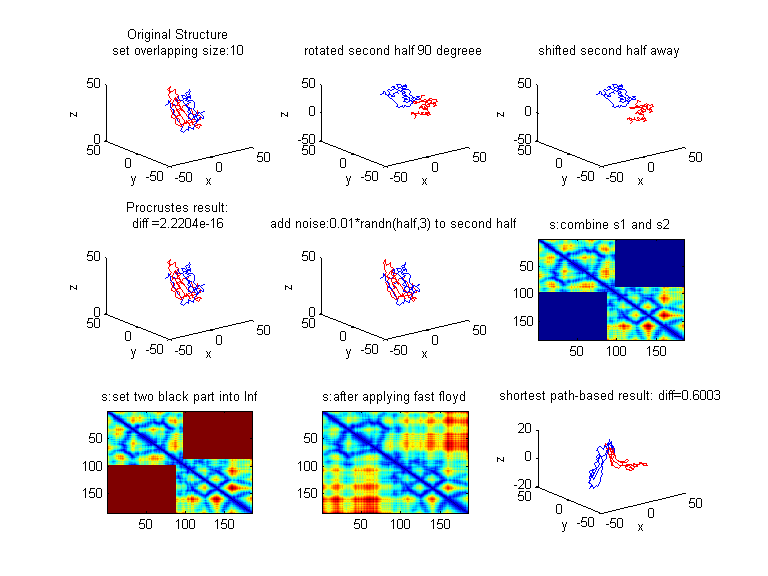
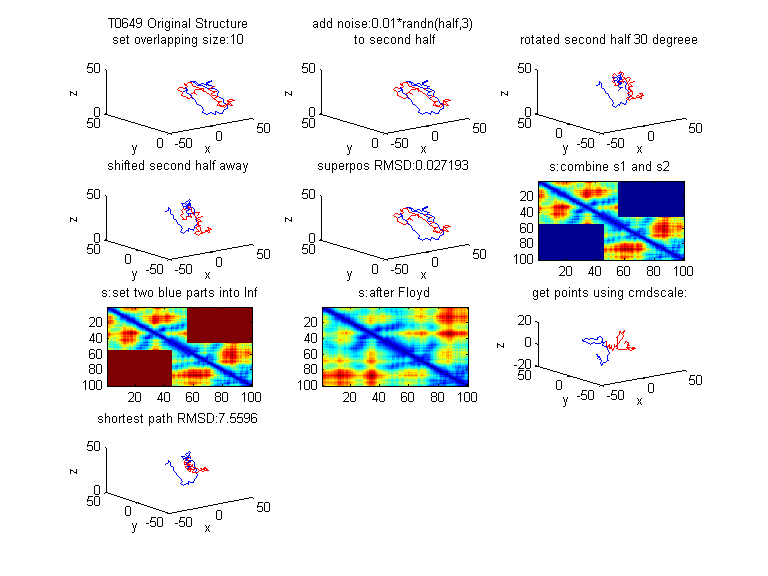
results

diff --git a/experimentMethods.m b/experimentMethods.m
@@ -14,7 +14,7 @@ secondHalfOrigin=coords(size(firstHalfOrigin,1)-overlappingSize+1:end,:);
 
 
 % figure;
-subplot(3,3,1);
+subplot(4,3,1);
 plot3(firstHalfOrigin(:,1),firstHalfOrigin(:,2),firstHalfOrigin(:,3));
 hold on
 plot3(secondHalfOrigin(:,1),secondHalfOrigin(:,2),secondHalfOrigin(:,3),'r');
@@ -29,7 +29,7 @@ zlabel('z')
 
 noise=alpha*randn(half,3);
 secondHalf=secondHalfOrigin+noise;
-subplot(3,3,2);
+subplot(4,3,2);
 plot3(firstHalfOrigin(:,1),firstHalfOrigin(:,2),firstHalfOrigin(:,3));
 hold on
 plot3(secondHalf(:,1),secondHalf(:,2),secondHalf(:,3),'r');
@@ -44,7 +44,7 @@ zlabel('z')
 R=rotx(30);
 secondHalf=R*secondHalf';
 secondHalf=secondHalf';
-subplot(3,3,3);
+subplot(4,3,3);
 % figure;
 plot3(firstHalfOrigin(:,1),firstHalfOrigin(:,2),firstHalfOrigin(:,3));
 hold on
@@ -59,7 +59,7 @@ zlabel('z')
 Move=zeros(size(secondHalf));
 Move(:,3)=10;
 secondHalf=secondHalf-Move;
-subplot(3,3,4);
+subplot(4,3,4);
 %figure;
 plot3(firstHalfOrigin(:,1),firstHalfOrigin(:,2),firstHalfOrigin(:,3));
 hold on
@@ -79,7 +79,7 @@ b = transform.b;
 secondHalfRecover = secondHalf*T+repmat(c(1,:),size(secondHalf,1),1) ;
     
 
-subplot(3,3,5);
+subplot(4,3,5);
 %figure;
 plot3(firstHalfOrigin(:,1),firstHalfOrigin(:,2),firstHalfOrigin(:,3));
 hold on
@@ -106,28 +106,26 @@ secondHalf=secondHalfOrigin+noise;
 
 
 
-
-
 s1 = pdist2(firstHalfOrigin,firstHalfOrigin);
 s2 = pdist2(secondHalf,secondHalf);
 s=zeros(totalPoints,totalPoints);
 s(1:half,1:half)=s1;
 s(half-overlappingSize+1:end,half-overlappingSize+1:end)=s2;
-subplot(3,3,6);
+subplot(4,3,6);
 imagesc(s);
 %colorbar;
 title('s:combine s1 and s2')
 
 s(1:half-overlappingSize,half+1:end)=Inf;
 s(half+1:end,1:half-overlappingSize)=Inf;
-subplot(3,3,7);
+subplot(4,3,7);
 imagesc(s);
 %colorbar;
 title('s:set two blue parts into Inf')
 
-s = Floyd_Warshall(s);
-% s=ShortPath(s);
-subplot(3,3,8);
+  s = Floyd_Warshall(s);
+%   s=ShortPath(s);
+subplot(4,3,8);
 imagesc(s);
 %colorbar;
 title('s:after Floyd')
@@ -137,11 +135,17 @@ p=cmdscale(s);
 p=p(:,1:3);
 firstHalfRecovered=p(1:half,:);
 secondHalfRecovered=p(size(firstHalfRecovered,1)-overlappingSize+1:end,:);
-subplot(3,3,9);
+subplot(4,3,9);
 plot3(firstHalfRecovered(:,1),firstHalfRecovered(:,2),firstHalfRecovered(:,3));
 hold on
 plot3(secondHalfRecovered(:,1),secondHalfRecovered(:,2),secondHalfRecovered(:,3),'r');
 hold off
+title('get points using cmdscale:');
+xlabel('x')
+ylabel('y')
+zlabel('z')
+
+
 
 [~,Z,transform] = procrustes(firstHalfOrigin(half-overlappingSize+1:half,:),secondHalfRecovered(1:overlappingSize,:),'scaling',false);
 
@@ -149,15 +153,18 @@ c = transform.c;
 T = transform.T;
 b = transform.b;
 secondHalfRecover = secondHalfRecovered*T+repmat(c(1,:),size(secondHalfRecovered,1),1) ;
-
-
+subplot(4,3,10);
+plot3(firstHalfOrigin(:,1),firstHalfOrigin(:,2),firstHalfOrigin(:,3));
+hold on
+plot3(secondHalfRecover(:,1),secondHalfRecover(:,2),secondHalfRecover(:,3),'r');
+hold off
 diff2=RMSD( secondHalfOrigin,secondHalfRecover );
 title(strcat('shortest path RMSD:', num2str(diff2)))
 xlabel('x')
 ylabel('y')
 zlabel('z')
 
-%  set(gcf,'PaperType','usletter')
-%  print('-dpng','-r0',strcat(proteinName,'Alpha',num2str(alpha),'OverlappingSize',num2str(overlappingSize)))
+  set(gcf,'PaperType','usletter')
+  print('-dpng','-r0',strcat(proteinName,'Alpha',num2str(alpha),'OverlappingSize',num2str(overlappingSize)))
 
   end

diff --git a/singleRunner.m b/singleRunner.m
@@ -1,4 +1,3 @@
-
 %% prepare dataset
 clear all
 clc
@@ -26,7 +25,7 @@ secondHalfOrigin=coords(size(firstHalfOrigin,1)-overlappingSize+1:end,:);
 
 
 % figure;
-subplot(3,3,1);
+subplot(4,3,1);
 plot3(firstHalfOrigin(:,1),firstHalfOrigin(:,2),firstHalfOrigin(:,3));
 hold on
 plot3(secondHalfOrigin(:,1),secondHalfOrigin(:,2),secondHalfOrigin(:,3),'r');
@@ -41,7 +40,7 @@ zlabel('z')
 
 noise=alpha*randn(half,3);
 secondHalf=secondHalfOrigin+noise;
-subplot(3,3,2);
+subplot(4,3,2);
 plot3(firstHalfOrigin(:,1),firstHalfOrigin(:,2),firstHalfOrigin(:,3));
 hold on
 plot3(secondHalf(:,1),secondHalf(:,2),secondHalf(:,3),'r');
@@ -56,7 +55,7 @@ zlabel('z')
 R=rotx(30);
 secondHalf=R*secondHalf';
 secondHalf=secondHalf';
-subplot(3,3,3);
+subplot(4,3,3);
 % figure;
 plot3(firstHalfOrigin(:,1),firstHalfOrigin(:,2),firstHalfOrigin(:,3));
 hold on
@@ -71,7 +70,7 @@ zlabel('z')
 Move=zeros(size(secondHalf));
 Move(:,3)=10;
 secondHalf=secondHalf-Move;
-subplot(3,3,4);
+subplot(4,3,4);
 %figure;
 plot3(firstHalfOrigin(:,1),firstHalfOrigin(:,2),firstHalfOrigin(:,3));
 hold on
@@ -91,7 +90,7 @@ b = transform.b;
 secondHalfRecover = secondHalf*T+repmat(c(1,:),size(secondHalf,1),1) ;
     
 
-subplot(3,3,5);
+subplot(4,3,5);
 %figure;
 plot3(firstHalfOrigin(:,1),firstHalfOrigin(:,2),firstHalfOrigin(:,3));
 hold on
@@ -118,28 +117,26 @@ secondHalf=secondHalfOrigin+noise;
 
 
 
-
-
 s1 = pdist2(firstHalfOrigin,firstHalfOrigin);
 s2 = pdist2(secondHalf,secondHalf);
 s=zeros(totalPoints,totalPoints);
 s(1:half,1:half)=s1;
 s(half-overlappingSize+1:end,half-overlappingSize+1:end)=s2;
-subplot(3,3,6);
+subplot(4,3,6);
 imagesc(s);
 %colorbar;
 title('s:combine s1 and s2')
 
 s(1:half-overlappingSize,half+1:end)=Inf;
 s(half+1:end,1:half-overlappingSize)=Inf;
-subplot(3,3,7);
+subplot(4,3,7);
 imagesc(s);
 %colorbar;
 title('s:set two blue parts into Inf')
 
-s = Floyd_Warshall(s);
-% s=ShortPath(s);
-subplot(3,3,8);
+  s = Floyd_Warshall(s);
+%   s=ShortPath(s);
+subplot(4,3,8);
 imagesc(s);
 %colorbar;
 title('s:after Floyd')
@@ -149,11 +146,17 @@ p=cmdscale(s);
 p=p(:,1:3);
 firstHalfRecovered=p(1:half,:);
 secondHalfRecovered=p(size(firstHalfRecovered,1)-overlappingSize+1:end,:);
-subplot(3,3,9);
+subplot(4,3,9);
 plot3(firstHalfRecovered(:,1),firstHalfRecovered(:,2),firstHalfRecovered(:,3));
 hold on
 plot3(secondHalfRecovered(:,1),secondHalfRecovered(:,2),secondHalfRecovered(:,3),'r');
 hold off
+title('get points using cmdscale:');
+xlabel('x')
+ylabel('y')
+zlabel('z')
+
+
 
 [~,Z,transform] = procrustes(firstHalfOrigin(half-overlappingSize+1:half,:),secondHalfRecovered(1:overlappingSize,:),'scaling',false);
 
@@ -161,8 +164,11 @@ c = transform.c;
 T = transform.T;
 b = transform.b;
 secondHalfRecover = secondHalfRecovered*T+repmat(c(1,:),size(secondHalfRecovered,1),1) ;
-
-
+subplot(4,3,10);
+plot3(firstHalfOrigin(:,1),firstHalfOrigin(:,2),firstHalfOrigin(:,3));
+hold on
+plot3(secondHalfRecover(:,1),secondHalfRecover(:,2),secondHalfRecover(:,3),'r');
+hold off
 diff2=RMSD( secondHalfOrigin,secondHalfRecover );
 title(strcat('shortest path RMSD:', num2str(diff2)))
 xlabel('x')

diff --git a/myRunner.m b/myRunner.m
@@ -4,14 +4,14 @@ close all
 
 rng(1)
 
-proteinName='T0649';
-load (proteinName);
-points = T0649(1:100,1:3);
-
-
-% proteinName='T0652';
+% proteinName='T0649';
 % load (proteinName);
-% points = T0652(101:200,1:3);
+% points = T0649(1:100,1:3);
+
+
+proteinName='T0652';
+load (proteinName);
+points = T0652(101:200,1:3);
 
 
 
